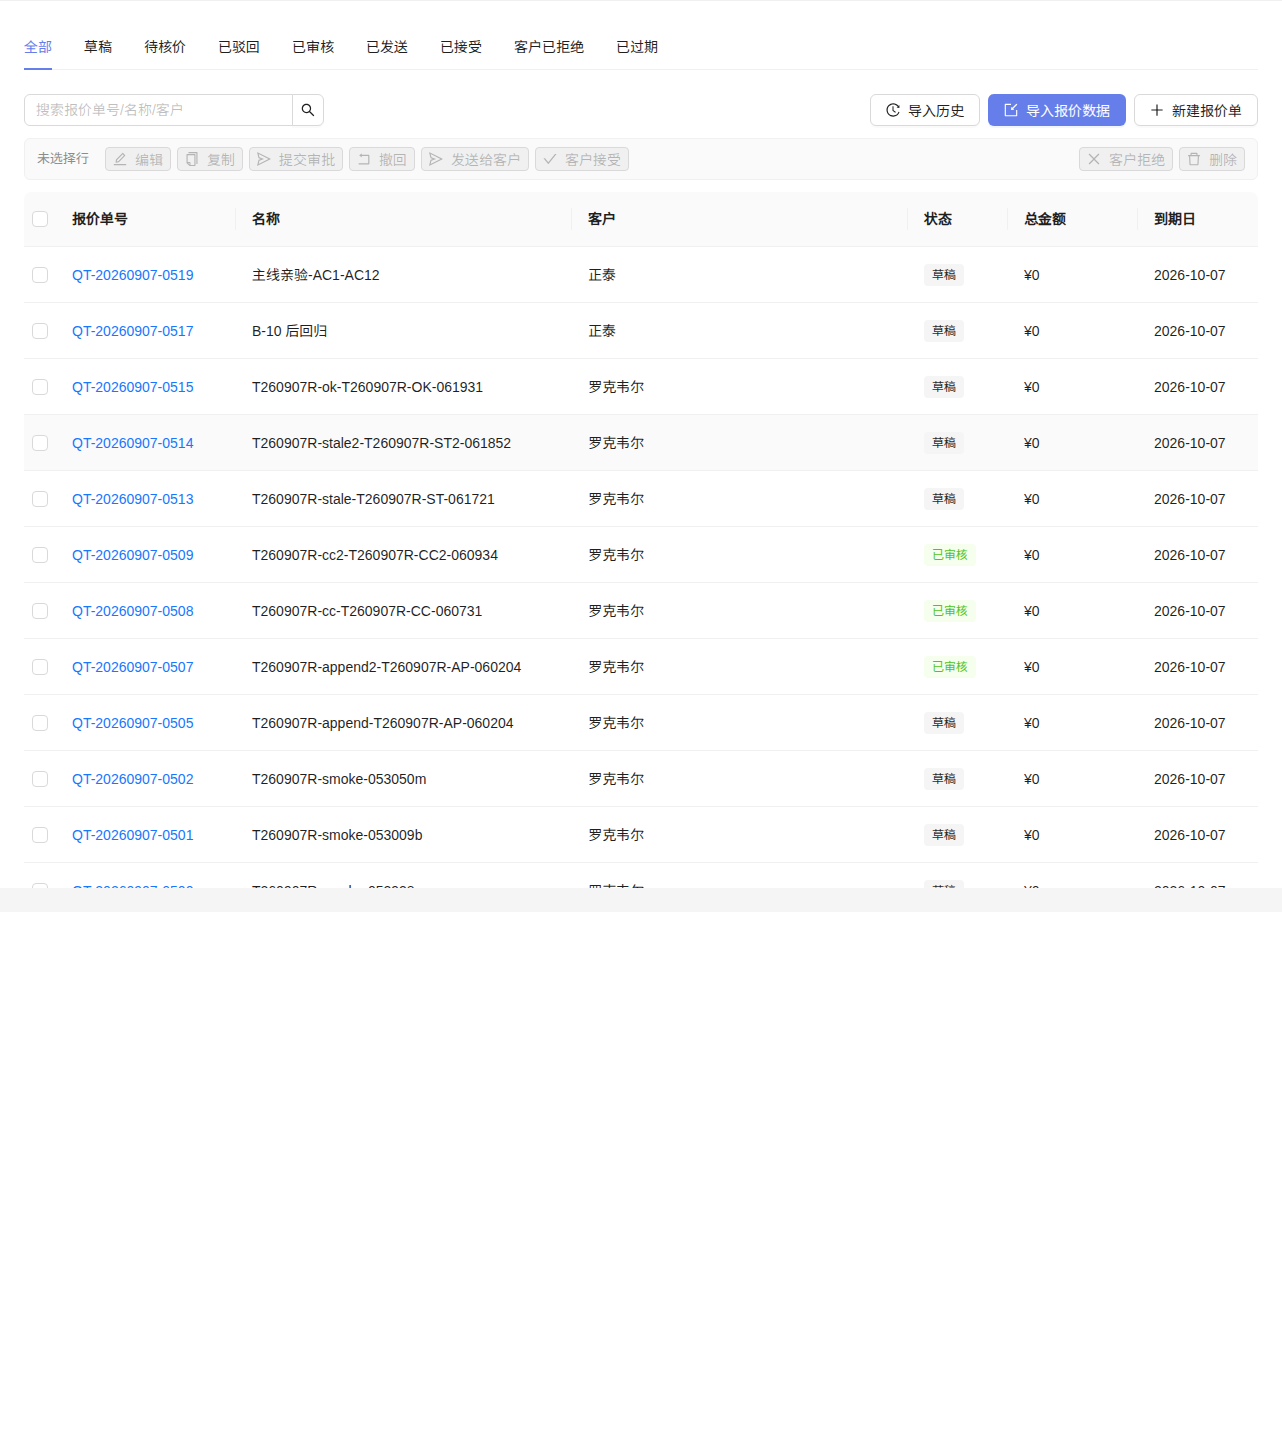
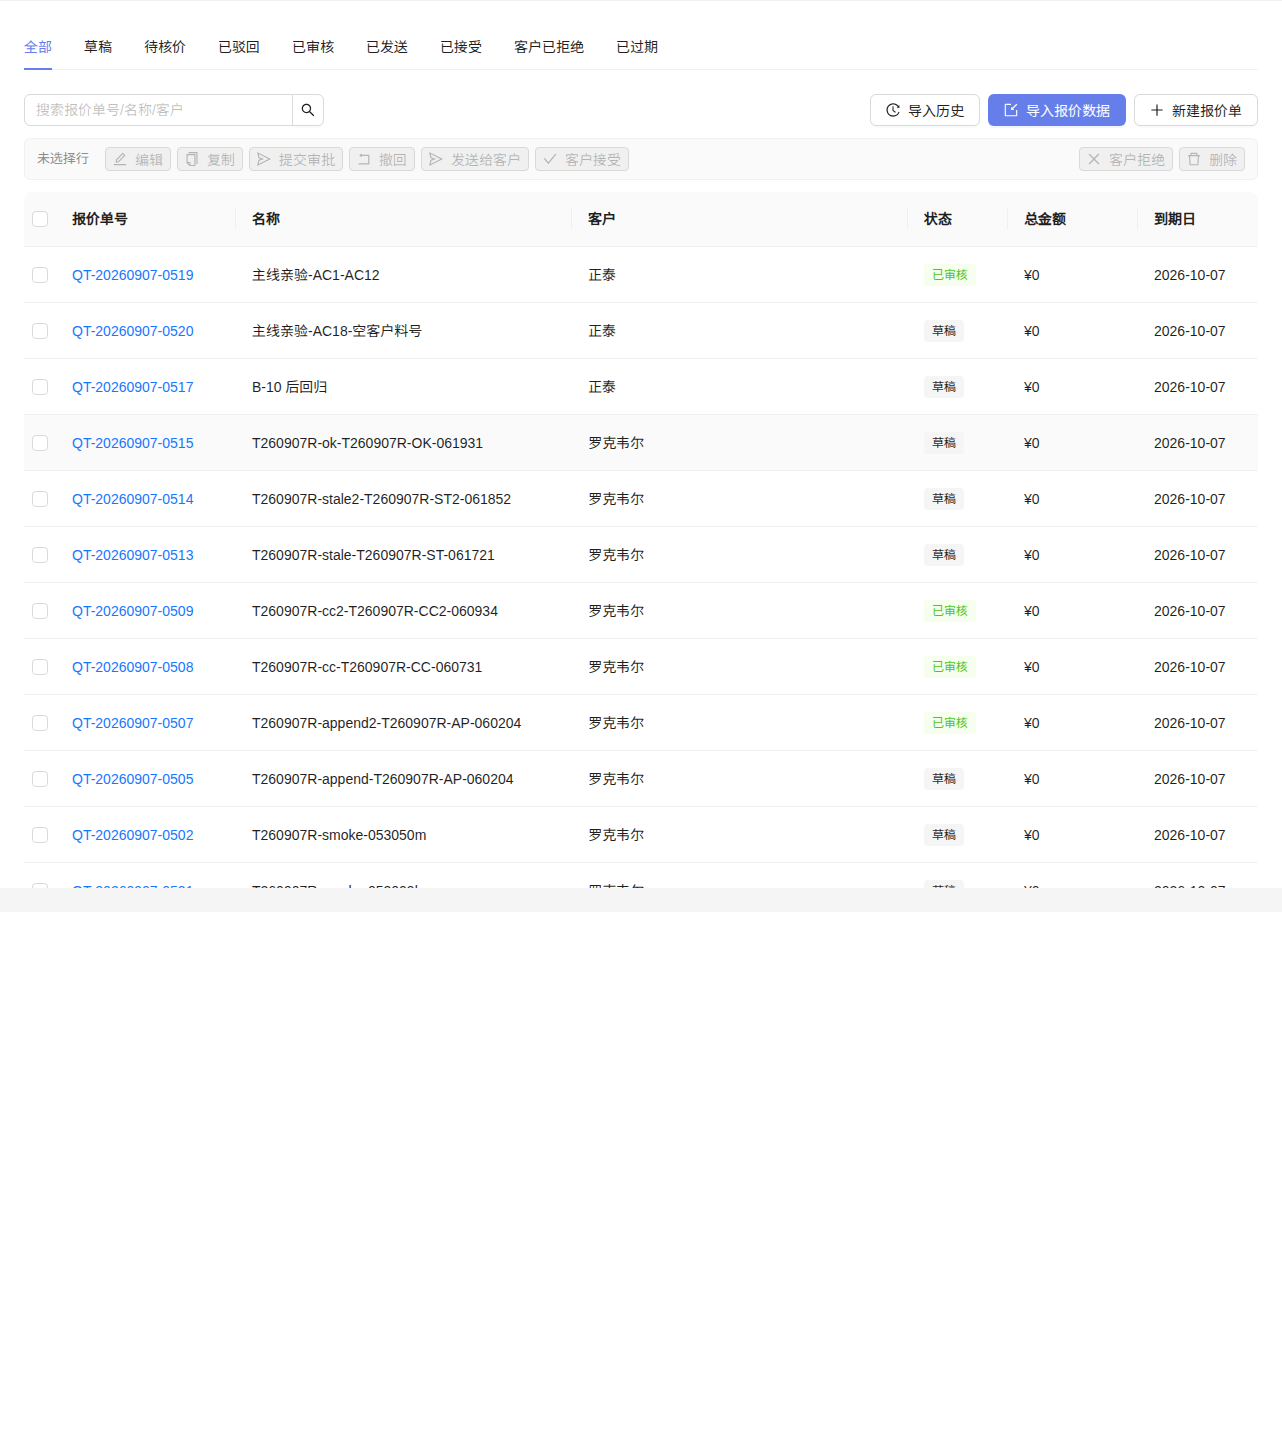
chore(task-260907): 两个核价哨兵 spec 加 test.skip（BL-0221）+ 清理被删文件证伪掉的注释
哨兵 skip（用户裁决）：
- repro-costing-tree-import / verify-detail-costing-new 两个 spec 靠点旧按钮建单走 V6 链路，
  入口随 F-1 下线 ⇒ 加 test.skip 并注明「所守回归线仍有效，待核价侧切 ds_ 后按新入口重写，见 BL-0221」
- 🚫 不删文件：它们守的是 RECORD 2026-07-12 task-0712 的两条真回归线
  （核价树永久「加载中」/ 详情页「无组件数据」）
- skip 放在测试体第一句而非 describe 外 ⇒ 实跑输出 `Running 2 tests` + `2 skipped`，
  不是 `Running 0 tests` 那种「收集为零也返 0」的绿

注释清理，判据 = 这条注释陈述的是「现在的事实」还是「历史/理由/边界」：
- 前者会被删文件证伪，必须改：
  · QuotationCreateForm.tsx:2「由 QuotationWizard / QuoteBasicDataImportV6Drawer 共用」
  · QuotationList.tsx:15-18「抽屉与 service 暂留仓库（未删）」← 删除后成了主动误导的断言
  · quoteDatasetImportService.ts:11「两条线并行到 S-6 才收敛」← 旧线已下线，不再并行
  · DatasetImportDrawer.tsx:9「现有「从基础数据导入」」← 「现有」不再成立
- 后者不改（惯例出处 / 边界声明 / 墓碑），改了反而丢信息：
  两处 pollImportResult 20 分钟惯例的出处、边界声明的主干、已立的墓碑

回归（tsc 抓不到打包器解析阶段问题，故实跑）：
  /src/pages/quotation/QuotationList.tsx 与 QuotationCreateForm.tsx 模块地址各 200；
  列表页 DOM 双向断言 PASS；「导入报价数据」抽屉照常打开。
  tsc -p tsconfig.app.json / -p tsconfig.test.json 各 EXIT=0。

diff --git a/cpq-frontend/src/pages/quotation/QuotationList.tsx b/cpq-frontend/src/pages/quotation/QuotationList.tsx
@@ -14,8 +14,9 @@ import { quotationSnapshotService } from '../../services/quotationSnapshotServic
 import { useAuthStore } from '../../stores/authStore';
 // task-260907 · F-1（AC-13）：旧「从基础数据导入」入口已下线 —— 它调的
 // `POST /basic-data-import/v6/quote/create-quotation` 已被 B-10 摘除（实测返 410），
-// 按钮留着只会把用户带进死路。抽屉组件 `QuoteBasicDataImportV6Drawer` 与其
-// service 文件本身暂留仓库（未删），但**已无任何引用**。
+// 按钮留着只会把用户带进死路。
+// 🪦 配套的抽屉组件 `QuoteBasicDataImportV6Drawer.tsx` 与 `services/basicDataImportV6Service.ts`
+//    已于 2026-09-07 一并删除（用户批准），**仓库里不再有这两个文件**；需要参照请查 git history。
 import CopyQuotationDrawer from './CopyQuotationDrawer';
 import SelectableTable, { runBatch, type ToolbarAction } from '../../components/SelectableTable';
 // task-260907 · F-2（AC-13 / AC-19）：「导入报价数据」改开**建单专用**抽屉（选客户 → 上传 → 建单）。

diff --git a/cpq-frontend/src/services/quoteDatasetImportService.ts b/cpq-frontend/src/services/quoteDatasetImportService.ts
@@ -8,7 +8,9 @@
 //
 // 🚫 与 `POST /dataset/{dataset}/import`（DatasetImportDrawer 共用，基础资料维护也在用）
 //    **完全无关**，一个字节都不碰（api.md §0 / §5，AC-15）。
-// 🚫 与 `basicDataImportV6Service`（旧「从基础数据导入」）也无关，两条线并行到 S-6 才收敛。
+// 🚫 与 `basicDataImportV6Service`（旧「从基础数据导入」）也无关。
+//    🪦 该 service 与其抽屉已于 2026-09-07 随 task-260907 F-1 删除（AC-13）；
+//       此处保留这句**边界声明**是为了拦住「这两条线是不是一回事」的误认 —— 它们从来不是。
 // ─────────────────────────────────────────────────────────────────────────────
 import api from './api';
 

diff --git a/cpq-frontend/e2e/repro-costing-tree-import.spec.ts b/cpq-frontend/e2e/repro-costing-tree-import.spec.ts
@@ -67,6 +67,10 @@ let backendUp = false;
 test.beforeAll(async () => { backendUp = await isBackendUp(); });
 
 test('复现: 导入建单后进核价单, 核价树是否"加载中"(不手刷) + 手刷后恢复', async ({ page }) => {
+  test.skip(true, '入口依赖：本用例经「从基础数据导入」建单走 V6 链路，该入口已由 task-260907 F-1 下线，' +
+                  '抽屉组件与 service 亦已删除（重建参照见 git history）。' +
+                  '所守的回归线仍有效（RECORD 2026-07-12 task-0712：核价树「加载中」/ 详情页「无组件数据」），' +
+                  '待核价侧切 ds_ 新表后按新入口重写。见 BL-0221。');
   test.skip(!backendUp, '后端未启动');
   expect(fs.existsSync(XLSX), `测试文件应存在: ${XLSX}`).toBe(true);
   test.setTimeout(180000);

diff --git a/cpq-frontend/e2e/verify-detail-costing-new.spec.ts b/cpq-frontend/e2e/verify-detail-costing-new.spec.ts
@@ -66,6 +66,10 @@ async function inspectCosting(page: Page, tag: string) {
 }
 
 test('新单详情页(只读)核价单开箱渲染核价树, 无「无组件数据」', async ({ page }) => {
+  test.skip(true, '入口依赖：本用例经「从基础数据导入」建单走 V6 链路，该入口已由 task-260907 F-1 下线，' +
+                  '抽屉组件与 service 亦已删除（重建参照见 git history）。' +
+                  '所守的回归线仍有效（RECORD 2026-07-12 task-0712：核价树「加载中」/ 详情页「无组件数据」），' +
+                  '待核价侧切 ds_ 新表后按新入口重写。见 BL-0221。');
   test.skip(!backendUp, '后端未启动');
   expect(fs.existsSync(XLSX)).toBe(true);
   test.setTimeout(180000);

diff --git a/cpq-frontend/src/pages/master-data/dataset/DatasetImportDrawer.tsx b/cpq-frontend/src/pages/master-data/dataset/DatasetImportDrawer.tsx
@@ -6,7 +6,7 @@
 //   · 报价数据           → 报价单管理工具栏的「导入报价数据」按钮
 //
 // 🚫 `frontend.md §1.1`：用 Drawer，不用 Modal。
-// 🚫 现有「从基础数据导入」（QuoteBasicDataImportV6Drawer）与本组件**完全无关**，
+// 🚫 曾经的「从基础数据导入」（QuoteBasicDataImportV6Drawer，已随 task-260907 F-1 删除）与本组件**完全无关**，
 //    一个字节都不碰（AC-35 / AC-43）。核价侧那条 V6 老导入抽屉已于 task-260907 随其页签一并移除。
 //
 // 🚨 原型与 AC 冲突（已上报主线，按 AC 原文实现）：

diff --git a/cpq-frontend/src/pages/quotation/QuotationCreateForm.tsx b/cpq-frontend/src/pages/quotation/QuotationCreateForm.tsx
@@ -1,5 +1,7 @@
 // V6 导入向导 Step 3 — 创建报价单表单（复用组件，无 Drawer 壳）
-// 由 QuotationWizard / QuoteBasicDataImportV6Drawer 共用
+// 当前唯一使用方：QuotationWizard
+// 🪦 原另一使用方 QuoteBasicDataImportV6Drawer（「从基础数据导入」）已随 task-260907 F-1 下线并删除，
+//    本文件保留是因为 QuotationWizard 仍在用；文件名里的「V6 导入向导 Step 3」是历史称谓。
 import React, { useEffect, useRef, useState } from 'react';
 import {
   Alert,
